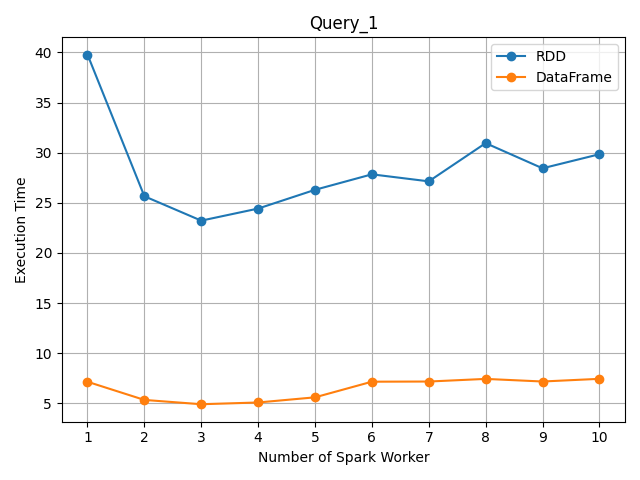
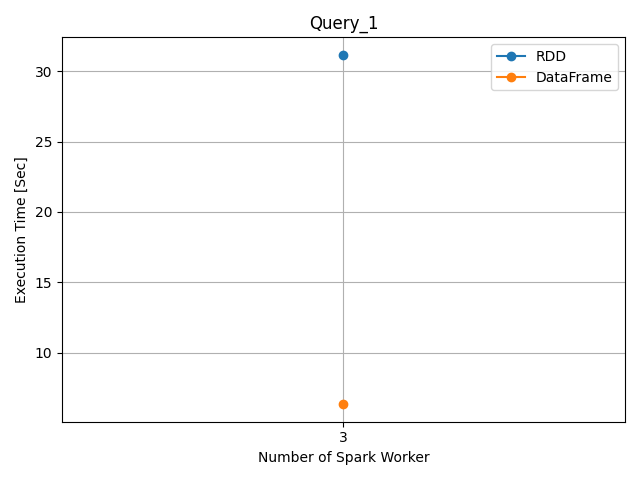
Added Query_2_variant.py

diff --git a/src/spark/Query_2.py b/src/spark/Query_2.py
@@ -6,28 +6,6 @@ import time
 def query(rdd : RDD) -> tuple([list, float]) :
     ## @param rdd : RDD of ['TradingDate', 'TradingTime', 'ID', 'SecType', 'Last', 'TradingTimeHour']
 
-    # partialRdd = rdd.map( # [(TradingDate, ID, TradingTimeHour), (TradingTime, Last)]
-    #     lambda x : ((x[0], x[2], x[5]), (x[1], x[4]))
-    # ).aggregateByKey( ## ((TradingDate, ID, TradingHour), (minTime, minPrice, maxTime, maxPrice))
-    #     zeroValue = ("AA:AA:AA.AAAA", 0, "00:00:00.0000", 0),
-    #     seqFunc = lambda accum, elem : (
-    #         min(accum[0], elem[0]),
-    #         accum[1] if accum[0] < elem[0] else elem[1],
-    #         max(accum[2], elem[0]),
-    #         elem[1] if accum[2] < elem[0] else accum[3],
-    #     ),
-    #     combFunc = lambda accum_1, accum_2 : (
-    #         min(accum_1[0], accum_2[0]) ,
-    #         accum_1[1] if accum_1[0] < accum_2[0] else accum_2[1] ,
-    #         max(accum_1[2], accum_2[2]) ,
-    #         accum_1[3] if accum_1[2] > accum_2[2] else accum_2[3] ,
-    #     )
-    # ).map( ## ((TradingDate, ID, Hour), (Last))
-    #     lambda x : ((x[0][0], x[0][1], int(x[0][2][0:2]) + 1) , x[1][3])
-    # ).map( ## ((TradingDate, ID) , (Hour, Last))
-    #     lambda x : ((x[0][0], x[0][1]), (x[0][2], x[1]))
-    # )
-
     partialRdd = rdd.map( # [(TradingDate, ID, TradingTimeHour), (TradingTime, Last, TradingTime, Last)]
         lambda x : ((x[0], x[2], x[5]), (x[1], x[4], x[1], x[4]))
     ).reduceByKey( ## ((TradingDate, ID, TradingHour), (minTime, minPrice, maxTime, maxPrice))
@@ -51,14 +29,14 @@ def query(rdd : RDD) -> tuple([list, float]) :
         lambda x : ((x[0][0], x[0][1], x[1][1][0]), (x[1][0][0], x[1][0][1], x[1][1][1]))
     ).reduceByKey( ## ((TradingDate, ID, Hour_2), (maxHour, maxLast, Last_2))
         lambda x, y : (max(x[0], y[0]), x[1] if x[0] > y[0] else y[1], x[2])
-    ).map( ## ((TradingDate, ID), Variation)
-        lambda x : ((x[0][0], x[0][1]), x[1][2] - x[1][1])
+    ).mapValues( ## ((TradingDate, ID), Variation)
+        lambda x : x[2] - x[1]
     ).aggregateByKey( ## ((TradingDate, ID), (Stats))
         zeroValue = StatCounter(),
         seqFunc = StatCounter.merge,
         combFunc = StatCounter.mergeStats
-    ).map( ## ((TradingDate, ID), (Mean, StdDev, Count + 1)) --> +1 is for counting first tuple of variations
-        lambda x : (x[0], (x[1].mean(), x[1].stdev(), x[1].count() + 1))
+    ).mapValues( ## ((TradingDate, ID), (Mean, StdDev, Count + 1)) --> +1 is for counting first tuple of variations
+        lambda x : (x.mean(), x.stdev(), x.count() + 1)
     ).map( ## (TradingDate, (Mean, StdDev, Count, ID))
         lambda x : ( x[0][0], (x[1][0], x[1][1], x[1][2], x[0][1]) ) 
     ).groupByKey( ## (TradingDate, iterableOf((Mean, StdDev, Count, ID)))
@@ -71,14 +49,7 @@ def query(rdd : RDD) -> tuple([list, float]) :
         lambda x : [ ((x[0], elem[3]) , (elem[0], elem[1], elem[2])) for elem in x[1] ]
     )
 
-    
 
-
-    # print("Collecting Result")
-    # for elem in resultRdd.collect() :
-    #     print(elem)
-
-    # return
 
     ## Anziché ordinare cerca il max per 5 volte e il min per 5 volte
     ## Ordinamento costa O(n^2) oppure O(n * log n)

diff --git a/src/spark_sql/SqlQuery_3.py b/src/spark_sql/SqlQuery_3.py
@@ -14,14 +14,14 @@ def query(dataFrame : DataFrame) -> tuple([DataFrame, float]) :
         {"min(TradingTime)" : "MinTime", "max(TradingTime)" : "MaxTime"}
     ).select(
         "TradingDate", "ID", "MinTime", "MaxTime"
-    ).filter(
+    ).filter( ## Remove those tuples which have only one trade
         col("MinTime") != col("MaxTime")
     ).withColumn(
         "Count", 
         lit(2)
     )
 
-    variationDataFrame = dataFrame.alias("Table_1").join(
+    resultDataFrame = dataFrame.alias("Table_1").join(
         timeDataFrame.alias("Times"),
         on = [
             col("Table_1.TradingDate") == col("Times.TradingDate"),
@@ -36,43 +36,29 @@ def query(dataFrame : DataFrame) -> tuple([DataFrame, float]) :
             col("Table_2.ID") == col("Times.ID")
         ]
     ).select(
-        "Table_1.TradingDate", 
-        "Table_1.ID", 
-        "Table_1.Last", 
-        "Table_2.Last", 
-        "Times.Count"
+        "Table_1.TradingDate", "Table_1.ID", "Table_1.Last", "Table_2.Last", "Times.Count"
     ).withColumn(
-        "Variation", 
-        col("Table_2.Last") - col("Table_1.Last")
+        "Variation", col("Table_2.Last") - col("Table_1.Last")
     ).select(
-        "TradingDate", 
-        "ID", 
-        "Variation", 
-        "Count"
+        "TradingDate", "ID", "Variation", "Count"
     ).withColumn(
-        "Country",
-        substring_index("ID", ".", -1)
+        "Country", substring_index("ID", ".", -1)
     ).groupBy(
-        "TradingDate", 
-        "Country"
+        "TradingDate", "Country"
     ).agg(
-        percentile_approx("Variation", 0.25, 1000000), 
-        percentile_approx("Variation", 0.5, 1000000), 
-        percentile_approx("Variation", 0.75, 1000000),
-        sum("Count")
+        percentile_approx("Variation", 0.25, 1000000), percentile_approx("Variation", 0.5, 1000000), 
+        percentile_approx("Variation", 0.75, 1000000), sum("Count")
     ).withColumnsRenamed(
         {
-        "percentile_approx(Variation, 0.25, 1000000)" : "25_perc", 
-        "percentile_approx(Variation, 0.5, 1000000)" : "50_perc",
-        "percentile_approx(Variation, 0.75, 1000000)" : "75_perc",
-        "sum(Count)" : "Count"
+        "percentile_approx(Variation, 0.25, 1000000)" : "25_perc", "percentile_approx(Variation, 0.5, 1000000)" : "50_perc",
+        "percentile_approx(Variation, 0.75, 1000000)" : "75_perc", "sum(Count)" : "Count"
         }
     )
 
     print("Collecting Result of Third Query with SQL")
     start = time.time()
-    variationDataFrame.collect()
+    resultDataFrame.collect()
     end = time.time()
     print("Execution Time >>> ", end - start)
 
-    return (variationDataFrame, end - start)
+    return (resultDataFrame, end - start)

diff --git a/src/spark/Query_2_variant.py b/src/spark/Query_2_variant.py
@@ -1,0 +1,67 @@
+from pyspark import *
+from pyspark.statcounter import StatCounter
+import time
+
+
+def query(rdd : RDD) -> tuple([list, float]) :
+    ## @param rdd : RDD of ['TradingDate', 'TradingTime', 'ID', 'SecType', 'Last', 'TradingTimeHour']
+
+    def findVariationList(couplesList : list) :
+        valuesList = sorted(list(couplesList))
+
+        varList = []
+        for i in range(1, len(valuesList)) :
+            firstElem = valuesList[i - 1]
+            secondElem = valuesList[i]
+            varList.append(secondElem[1] - firstElem[1])
+        
+        return varList
+
+    resultRdd = rdd.map( # [(TradingDate, ID, TradingTimeHour), (TradingTime, Last, TradingTime, Last)]
+        lambda x : ((x[0], x[2], x[5]), (x[1], x[4], x[1], x[4]))
+    ).reduceByKey( ## ((TradingDate, ID, TradingHour), (minTime, minPrice, maxTime, maxPrice))
+        lambda x, y : (
+            min(x[0], y[0]),
+            x[1] if x[0] < y[0] else y[1],
+            max(x[2], y[2]),
+            x[3] if x[2] > y[2] else y[3]
+        )
+    ).map( ## ((TradingDate, ID, Hour), (Last))
+        lambda x : ((x[0][0], x[0][1], int(x[0][2][0:2]) + 1) , x[1][3])
+    ).map( ## ((TradingDate, ID) , (Hour, Last))
+        lambda x : ((x[0][0], x[0][1]), (x[0][2], x[1]))
+    ).groupByKey(
+
+    ).mapValues(
+        lambda x : findVariationList(x)
+    ).flatMap(
+        lambda x : ((x[0], varElem) for varElem in x[1])
+    ).aggregateByKey(
+        zeroValue = StatCounter(),
+        seqFunc = StatCounter.merge,
+        combFunc = StatCounter.mergeStats
+    ).map( ## ((TradingDate, ID), (Mean, StdDev, Count + 1)) --> +1 is for counting first tuple of variations
+         lambda x : (x[0], (x[1].mean(), x[1].stdev(), x[1].count() + 1))
+    ).map( ## (TradingDate, (Mean, StdDev, Count, ID))
+        lambda x : ( x[0][0], (x[1][0], x[1][1], x[1][2], x[0][1]) ) 
+    ).groupByKey( ## (TradingDate, iterableOf((Mean, StdDev, Count, ID)))
+
+    ).mapValues( ## (TradingDate, sortedListOf((Mean, StdDev, Count, ID)))
+        lambda x : sorted(list(x), reverse = True)
+    ).mapValues( ## (TradingDate, listOf((Mean, StdDev, Count, ID)))
+        lambda x : x[0 : 5] + x[-5 : ]
+    ).flatMap( ## ((TradingDate, ID), (Mean, StdDev, Count))
+        lambda x : [ ((x[0], elem[3]) , (elem[0], elem[1], elem[2])) for elem in x[1] ]
+    )
+
+    print("Collecting result of Second Query (Variant)")
+    start = time.time()
+    resultRdd.collect()
+    end = time.time()
+    print("Execution Time >>> ", end - start)
+
+    resultRdd = resultRdd.map(
+        lambda x : (x[0][0], x[0][1], x[1][0], x[1][1], x[1][2])
+    )
+
+    return (resultRdd, end - start)

diff --git a/other/EvaluationAnalyzer.py b/other/EvaluationAnalyzer.py
@@ -9,26 +9,42 @@ def main() :
     for query in dataset["QueryNum"].drop_duplicates():
         
         axes = plt.subplot()
+        
+        
         for dataStructure in dataset["DataStructure"].drop_duplicates() :
             workerList = dataset["WorkerNodeNum"].drop_duplicates().sort_values()
-            avgList = []
-            stdDevList = []
+            
+            variantList = dataset[
+                (dataset["QueryNum"] == query) &
+                (dataset["DataStructure"] == dataStructure)
+            ]["QueryVariant"].drop_duplicates()
 
-            for workerNum in workerList :
-                timesSerie = dataset[
-                    (dataset["QueryNum"] == query) & 
-                    (dataset["WorkerNodeNum"] == workerNum) & 
-                    (dataset["DataStructure"] == dataStructure)
-                ]["Time"]
-                avgList.append(timesSerie.mean())
-                stdDevList.append(timesSerie.std())
+            for variant in variantList :
+                avgList = []
+                stdDevList = []
 
-            axes.plot(workerList, avgList, marker = "o", label = dataStructure)
+                for workerNum in workerList :
+                    timesSerie = dataset[
+                        (dataset["QueryNum"] == query) & 
+                        (dataset["WorkerNodeNum"] == workerNum) & 
+                        (dataset["DataStructure"] == dataStructure) &
+                        (dataset["QueryVariant"] == variant)
+                    ]["Time"]
+                    avgList.append(timesSerie.mean())
+                    stdDevList.append(timesSerie.std())
+
+                if len(variantList) == 1 :
+                    plotLabel = dataStructure
+                else :
+                    plotLabel = dataStructure + " / Var " + str(variant)
+
+                axes.plot(workerList, avgList, marker = "o", label = plotLabel)
+            
             axes.set_xticks(workerList)
         
         axes.set_title("Query_" + str(query))
         axes.set_xlabel("Number of Spark Worker")
-        axes.set_ylabel("Execution Time")
+        axes.set_ylabel("Execution Time [Sec]")
         axes.grid()
         axes.legend()
 

diff --git a/src/spark_sql/SqlQuery_2.py b/src/spark_sql/SqlQuery_2.py
@@ -16,14 +16,9 @@ def query(dataFrame : DataFrame) -> tuple([DataFrame, float]) :
     ).withColumnsRenamed(
         {"min(TradingTime)" : "MinTime", "max(TradingTime)" : "MaxTime"}
     )
-    
-    # .select(
-    #     "TradingDate", "TradingTimeHour", "ID", "MinTime", "MaxTime"
-    # )
 
     #timeDataFrame.show() 
     
-
     pricesDataFrame = dataFrame.alias("Table_1").withColumnRenamed("Last", "MinLast").join(
         timeDataFrame.alias("Times"),
         on = [
@@ -155,26 +150,6 @@ def query(dataFrame : DataFrame) -> tuple([DataFrame, float]) :
 
 
     resultDataFrame = bestRows.union(worstRows)
-    #resultDataFrame.show(n = 100)
-
-
-    
-
-    #variationsDataFrame.show(n = 100)
-
-   
-    
-    # .withColumn(
-    #     "Variation", col("Table_1.Last") - col("Table_2.Last")
-    # ).select(
-    #     "TradingDate", "TradingTimeHour", "ID", "Variation", "Count"
-    # ).groupBy(
-    #     "TradingDate", "ID"
-    # ).agg(
-    #     avg("Variation"), stddev("Variation"), sum("Count")
-    # ).withColumnsRenamed(
-    #     {"avg(Variation)" : "Avg" , "stddev_samp(Variation)" : "StdDev"}
-    # )
 
     print("Collecting result of Second Query with SQL")
     start = time.time()

diff --git a/src/dao/EvaluationWriter.py b/src/dao/EvaluationWriter.py
@@ -4,7 +4,7 @@ from engineering import SparkSingleton
 
 EVALUATION_PATH = "/Results/evaluation/evaluations.csv"
 
-def writeEvaluation(executionTime : float, queryNum : int, dataStructure : str) :
+def writeEvaluation(executionTime : float, queryNum : int, dataStructure : str, queryVariant : int = 1) :
 
     sparkContext = SparkSingleton.getSparkContext()
     workerNodeNum = sparkContext._jsc.sc().getExecutorMemoryStatus().size() - 1
@@ -12,9 +12,9 @@ def writeEvaluation(executionTime : float, queryNum : int, dataStructure : str) 
     if (not os.path.exists(EVALUATION_PATH)) :
         with open(EVALUATION_PATH, "+x") as outputFile :
             writer = csv.writer(outputFile)
-            writer.writerow(["QueryNum", "DataStrusture", "WorkerNodeNum", "Time"])
+            writer.writerow(["QueryNum", "QueryVariant", "DataStructure", "WorkerNodeNum", "Time"])
     
     
     with open(EVALUATION_PATH, "a") as outputFile :
         writer = csv.writer(outputFile)
-        writer.writerow([queryNum, dataStructure, workerNodeNum, executionTime])
+        writer.writerow([queryNum, queryVariant, dataStructure, workerNodeNum, executionTime])

diff --git a/src/Main.py b/src/Main.py
@@ -24,16 +24,18 @@ def main() :
             Controller.controller(0, 0, False, True)
             SparkSingleton.resetConnection()
 
-    elif (len(sys.argv) != 4) :
-        print("ERROR: WRONG PARAMETERS NUMBER")
-        return
-    
-    ## For every other configuration
-    queryNumber = int(sys.argv[1])
-    framework = int(sys.argv[2])
-    writeOutput = int(sys.argv[3]) == 0
+    elif (len(sys.argv) == 4) :
+        
+        queryNumber = int(sys.argv[1])
+        framework = int(sys.argv[2])
+        writeOutput = int(sys.argv[3]) == 0
 
-    Controller.controller(queryNumber, framework, writeOutput)
+        Controller.controller(queryNumber, framework, writeOutput)
+    
+    else :
+        ## For every other configuration
+        print("ERROR: WRONG PARAMETERS NUMBER")
+        
     
     input("Press Enter to Exit >>>")
 

diff --git a/src/controller/Controller.py b/src/controller/Controller.py
@@ -4,7 +4,7 @@ from dao import SparkResultWriter
 from dao import SparkSqlResultWriter
 from dao import EvaluationWriter
 
-from spark import Query_1, Query_2, Query_3
+from spark import Query_1, Query_2, Query_3, Query_2_variant
 from spark_sql import SqlQuery_1, SqlQuery_2, SqlQuery_3
 
 from pyspark.sql import *
@@ -92,6 +92,15 @@ def sparkController(rdd : RDD, queryNumber : int, writeOutput : bool = True, wri
             dataStructure = "RDD"
         )
 
+    if (writeEvaluation and queryNumber == 2) :
+        (resultRDD, variantExecutionTime) = Query_2_variant.query(rdd)
+        EvaluationWriter.writeEvaluation(
+            executionTime = variantExecutionTime,
+            queryNum = queryNumber,
+            dataStructure = "RDD",
+            queryVariant = 2
+        )
+        
     return
 
 

diff --git a/src/dao/RedisDao.py b/src/dao/RedisDao.py
@@ -7,8 +7,6 @@ import json
 def putResult(resultDataFrame : DataFrame, query : str) :
     redisConnection : Redis = RedisSingleton.getRedisConnection()
 
-    redisJson = redisConnection.json()
-
     jsonResult = resultDataFrame.toJSON().collect()
     jsonArray = json.dumps(jsonResult)
 
